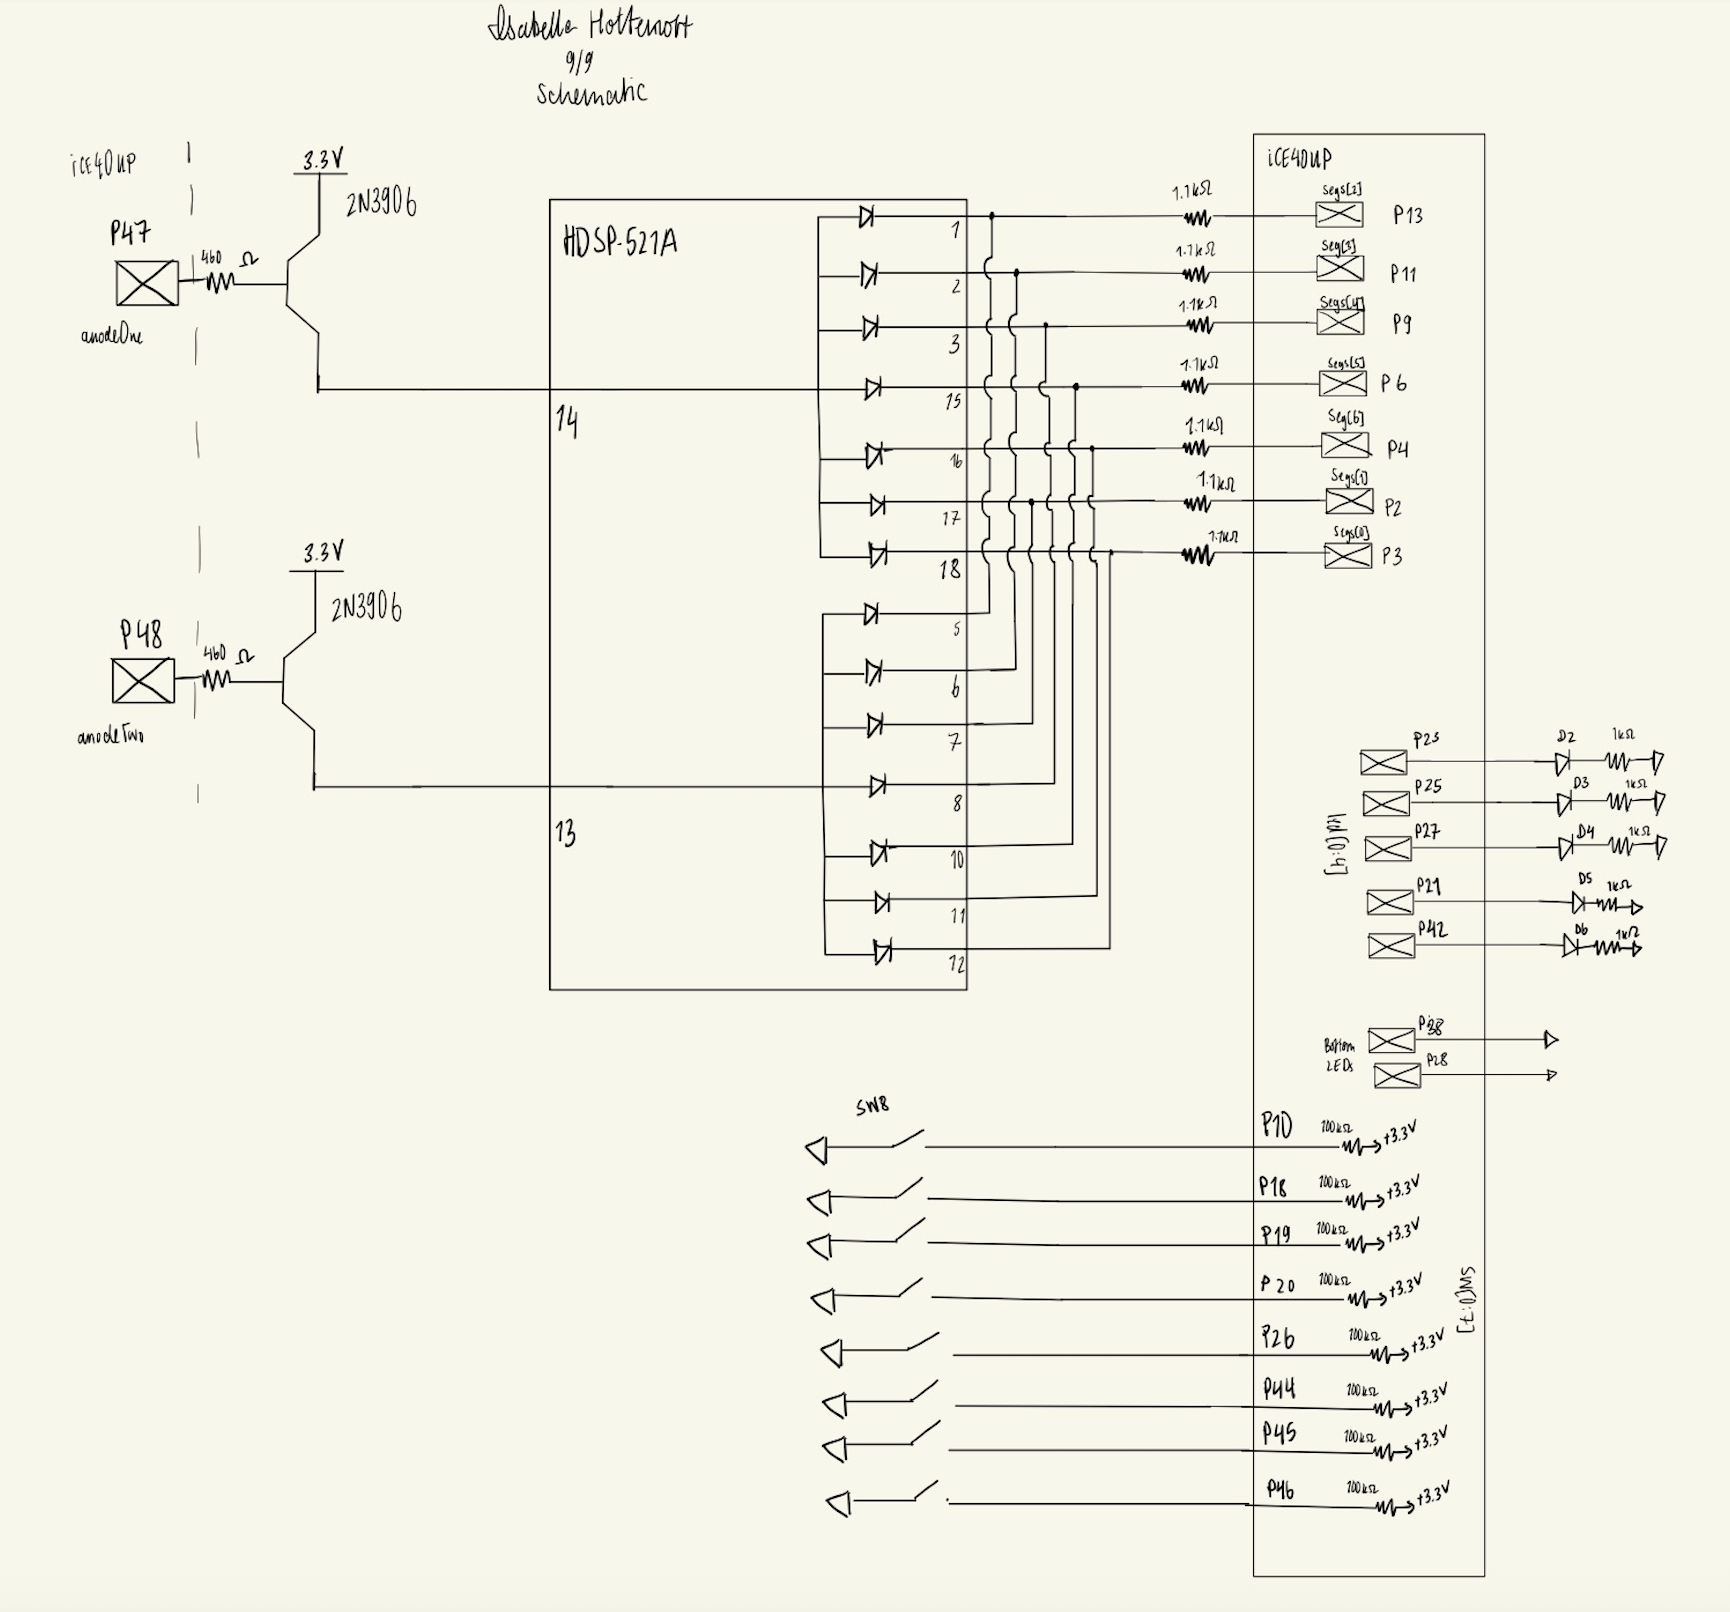
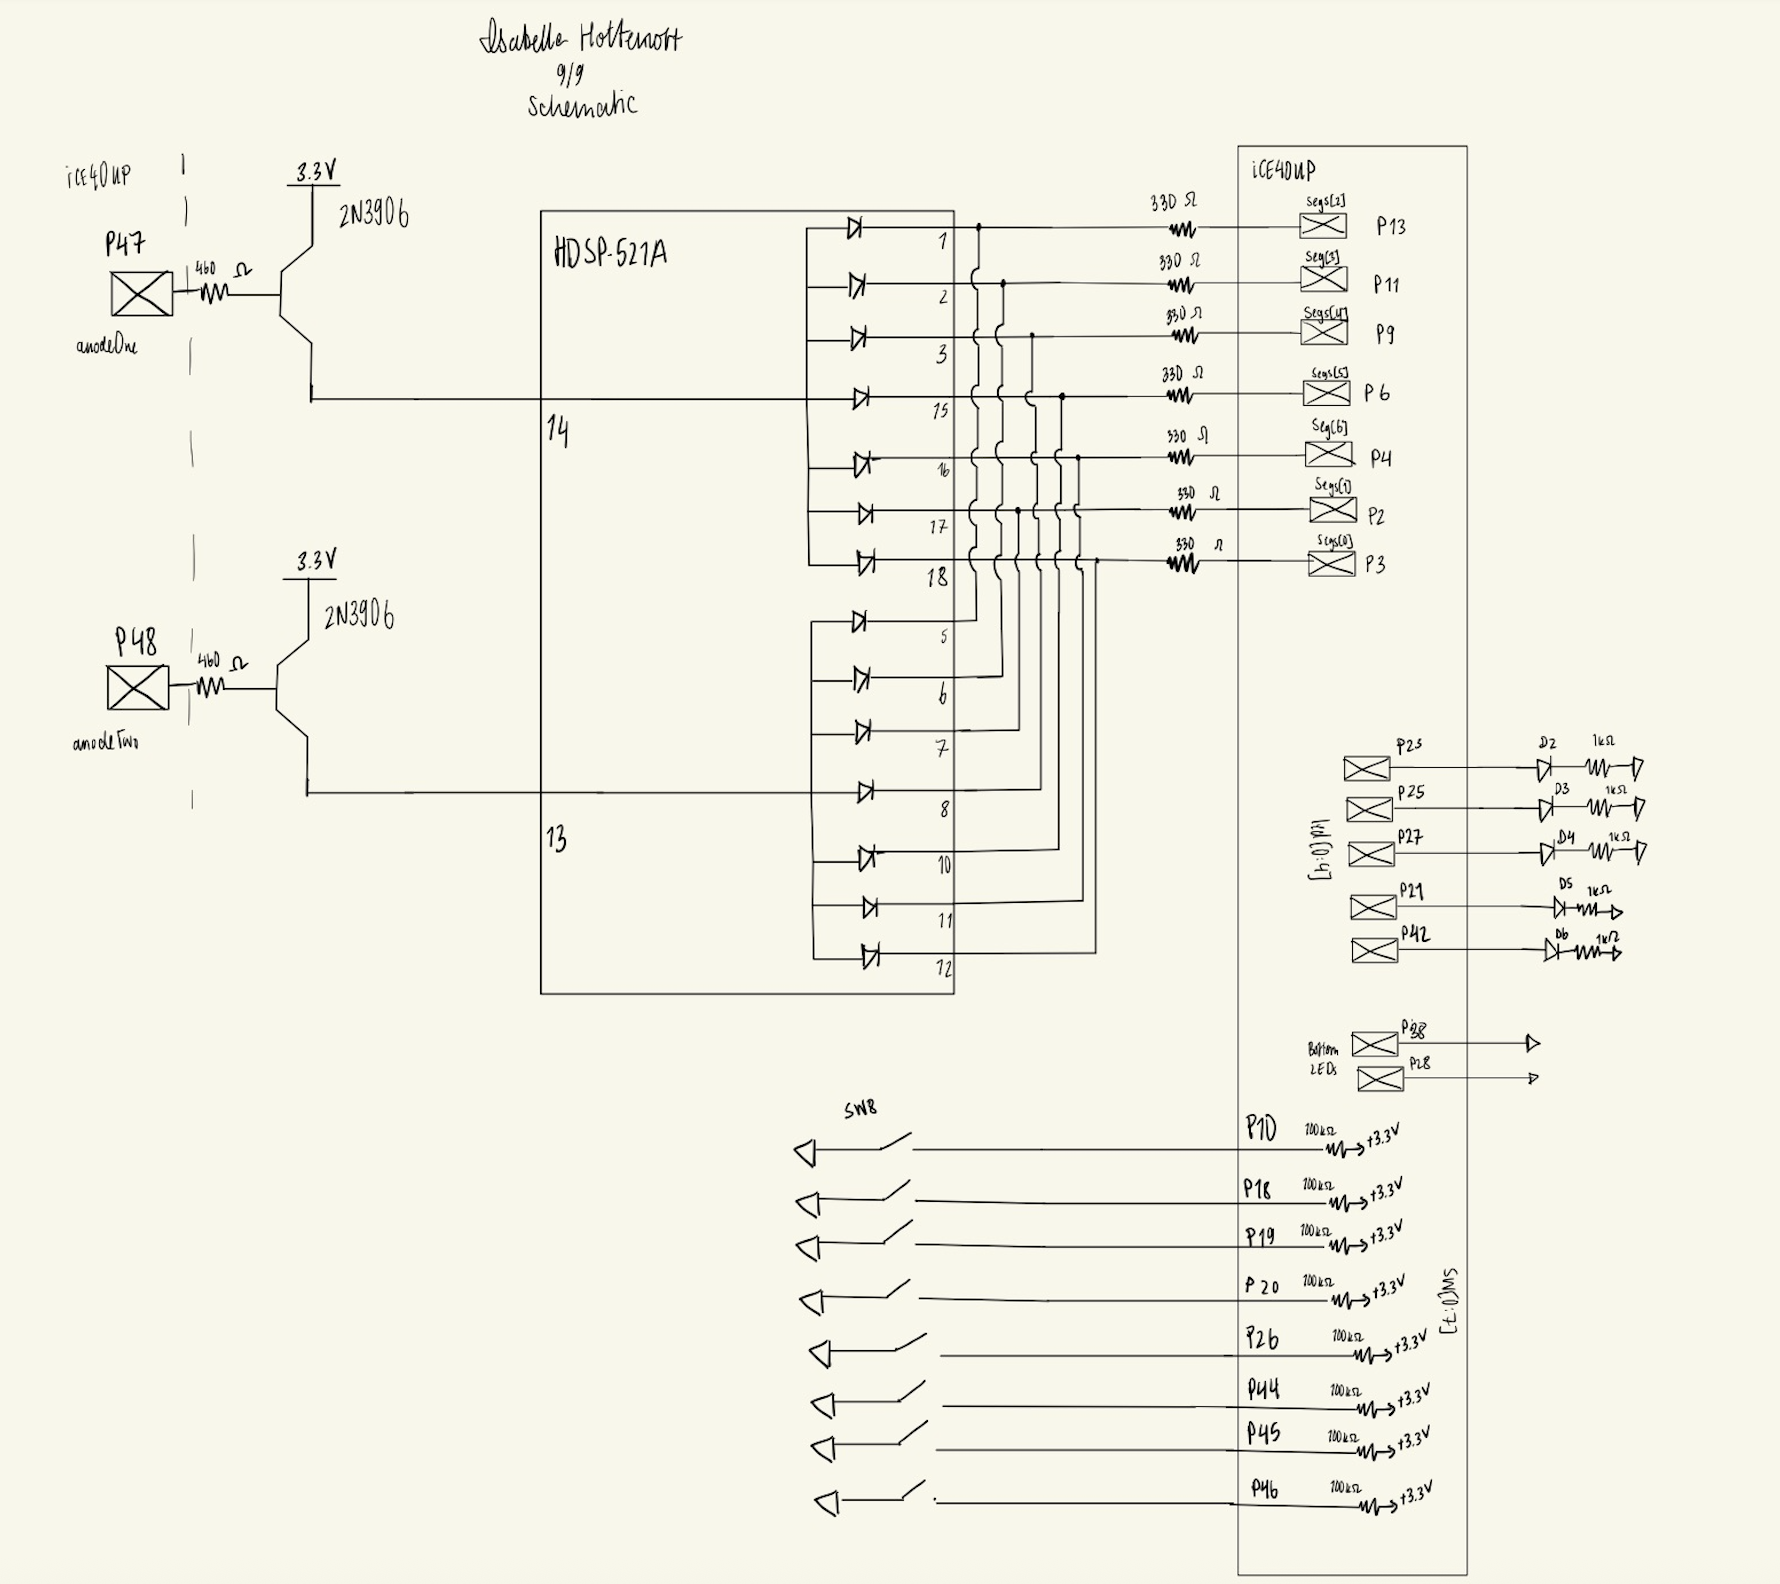
Built site for gh-pages

diff --git a/labs/lab2/lab2.html b/labs/lab2/lab2.html
@@ -153,8 +153,8 @@ ul.task-list li input[type="checkbox"] {
 <p>The iCE40 UltraPlus HSOSC primitive was used to generate a clock signal, which was stepped down to a 60 Hz signal that the design was based on. At this frequency, the human eye can no longer percieve refresh rates. This frequency also ensured that bleeding did not occur between the two segments.</p>
 <p>An 8-pin dip switch controls the HDSP-521A Dual Seven Segment Display, where the first four switches correspond to the first segment, and final four correspond to the second. When the internal clock is low, the input from the first four switches is selected, and when the clock is high, the input from the final four are selected.</p>
 <p>At the same time, when the clock is low, a signal is sent to drive the common anode of the first segment. When the clock is high, a separate signal drives the common anode of the second segment.</p>
-<p>The sum of the two hex values on the HDSP-521A Display is represented in binary on the on-board LEDs of the E155 Development Board. These are in series with 1 kΩ resistors to limit current.</p>
-<p>The Seven Segment Display module- a priority encoder- was used to convert the desired switch inputs into an output hex digit. The HDSP521A required a larger current draw than the FPGA can output. To overcome this, two 2N3906 PNP transistors drove the saturation current of !!!10 mA!!! into the respective segments’ anodes. !!!1 kΩ!!! were placed at the cathodes of the diodes to ensure this current pull. An ON segment produced a voltage drop of 3.3V (FPGA) - 1.85V (Vf) - 0.25V (Vce)= 1.2V across the pins and segments. The current flowing through the diode was chosen to be 1mA. Therefore the value of the current limiting resistor placed in series between the cathode and GPIO pin was 1 kΩ. Calculations for this component value can be found below. Calcualtions for the resistors can be found below.</p>
+<p>The sum of the two hex values on the HDSP-521A Display is represented in binary on the on-board LEDs of the E155 Development Board. These diodes are in series with 1 kΩ resistors to limit current.</p>
+<p>The Seven Segment Display module- a priority encoder- was used to convert the desired switch inputs into an output hex digit. The HDSP521A required a larger current draw than the FPGA can output, which was addressed by two 2N3906 PNP transistors. 330 Ω were placed at the cathodes of the diodes to ensure a 10mA current pull, over the (3.3 V - 0.25 Vce) = 3.05 V drop, through the segment when ON. Calculations for the current limiting resistor placed in series between the cathode and GPIO pin can be found below.</p>
 <div class="quarto-figure quarto-figure-center">
 <figure class="figure">
 <p><img src="images/resistor.png" class="img-fluid figure-img" style="width:40.0%"></p>
@@ -186,7 +186,7 @@ ul.task-list li input[type="checkbox"] {
 </section>
 <section id="schematic" class="level3">
 <h3 class="anchored" data-anchor-id="schematic">Schematic</h3>
-<p>The schematic above illustrates the physical layout on the breadboard. Corresponding diode cathodes from the seven segment displays were the same node (segment 1 A is the same node as segment 2 A, etc). These were connected in series with a 1 kΩ current-limiting resistor to the GPIO pins. The on-board LEDs required 1 kΩ resistors to their limit current. The emitter of the transistor is powered by 3.3 V, while the collector goes straight to the segment anodes. The base of the PNP transistor is in series with a 460Ω resistor such that less than 5mA of current is drawn from the GPIO pin, which lies within specs. <img src="images/schematic.png" class="img-fluid quarto-figure quarto-figure-center" alt="Figure 3: Schematic of the Breadboard"></p>
+<p>The schematic above illustrates the physical layout on the breadboard. Corresponding diode cathodes from the seven segment displays were the same node (segment 1 A is the same node as segment 2 A, etc). These were connected in series with a 330 Ω current-limiting resistor to the GPIO pins. The on-board LEDs required 1 kΩ resistors to their limit current. The emitter of the transistor is powered by 3.3 V, while the collector goes straight to the segment anodes. The base of the PNP transistor is in series with a 460Ω resistor such that less than 5mA of current is drawn from the GPIO pin, which lies within specs. <img src="images/schematic.png" class="img-fluid quarto-figure quarto-figure-center" alt="Figure 3: Schematic of the Breadboard"></p>
 </section>
 <section id="results-and-discussion" class="level3">
 <h3 class="anchored" data-anchor-id="results-and-discussion">Results and Discussion</h3>
